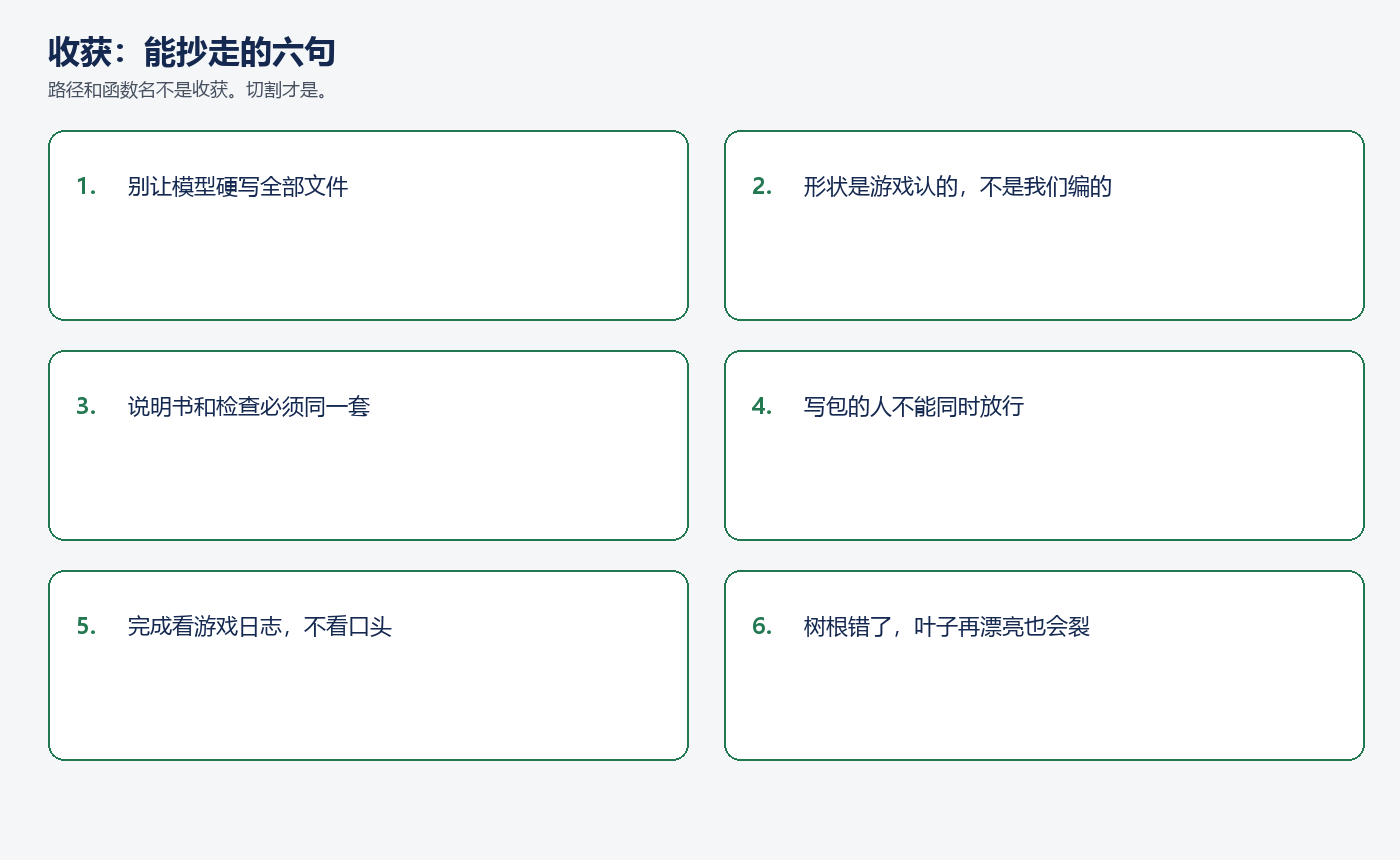
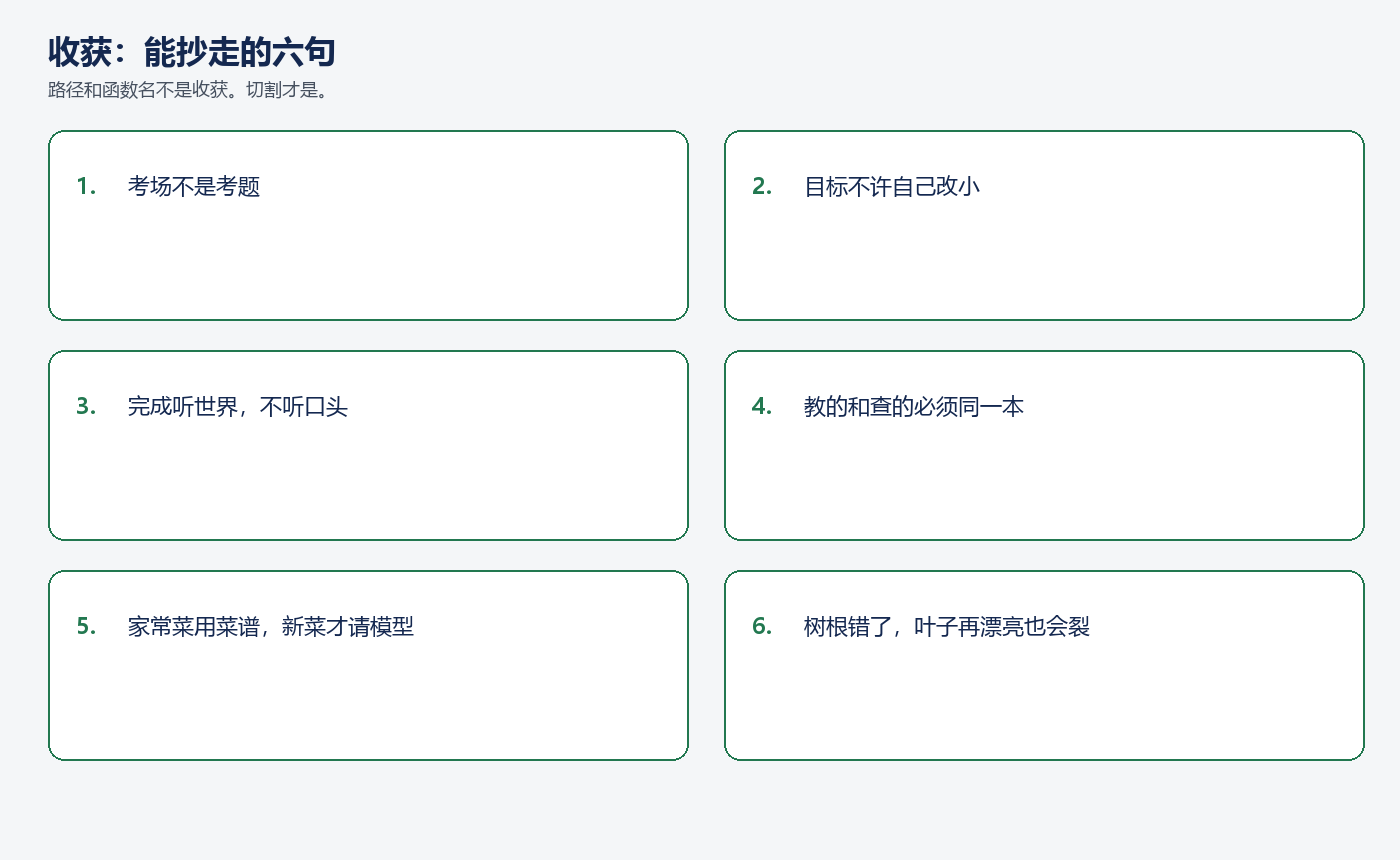
docs(zhihu): state why — SDV is the exam for agent-harness goal persistence

diff --git a/docs/zhihu-llm-schema/article.md b/docs/zhihu-llm-schema/article.md
@@ -2,11 +2,15 @@
 
 **TL;DR**
 
-- 别让一个大模型当万能厨师。家常菜用菜谱，新菜才请人现场做。
-- 形状是游戏认的那张表长什么样，不是「文件能打开」。
-- 教的和查的必须同一本说明书。过了门，才打包。
-- 「我写好了」不算完。听游戏日志改了哪张表。
+- 星露谷是考场。验的是 Agent 套件能不能把目标钉住，不是「会不会写模组」。
+- 目标不许自己改小。成功不能从「游戏里正确」缩成「文件能打开」。
+- 「我写好了」不算完。听游戏日志，不听口头。
+- 教的和查的同一本说明书，过门才打包。家常菜用菜谱，新菜才请模型。
 - 能抄走的是这套切法，不是某个仓库里的文件名。
+
+我们做这件事，不是为了再做一个模组生成器。
+
+是拿一个会骗人的完成标准，去压 Agent 的套件（圈内常叫 Harness）：目标会不会自己改小、会不会听口头下课、卡住会不会乱认输、空下来会不会把完整目标再念一遍。星露谷只是考场。模组能不能进游戏，是考卷上的分数，不是开这门课的原因。
 
 给 Agent 加「一句话生成模组」，第一反应通常是三件事：提示词丢进一个万能模型、吐出整棵目录就打包、文件能打开就算完成。
 
@@ -14,9 +18,15 @@
 
 我们没走这条。贯穿始终的一句话是：
 
-**形状是真相，过门才打包。**
+**星露谷是考场。答卷纸是：形状是真相，过门才打包。**
 
-人话：先弄清游戏吃什么样的补丁；说明书和检查用同一本；过关才给包装好的包；日志里真的改了表，才叫做成了。下面按这个顺序讲。每一步先说它是什么，再说它不是什么。
+人话：套件必须把「游戏里正确」钉住，不许改成「文件能打开」；说明书和检查用同一本；日志里真的改了表，才叫做成了。中途把题目改软，这门考就白考了。下面按这个顺序讲。每一步先说它是什么，再说它不是什么。
+
+![验四件事：目标不缩水、完成听世界、卡住才许认输、空了把完整目标再念一遍](images/09-why.png)
+
+是：用真游戏当外部裁判，逼套件把目标钉到日志认账为止。
+
+不是：展示「我们会用大模型写星露谷」。那是考场布置，不是考题。
 
 ---
 
@@ -26,7 +36,7 @@
 
 ![错路是万能模型整包吐目录；正路是家常菜走菜谱，新菜对照说明书，过门才打包](images/05-wrong.png)
 
-是：常见需求走写死的模板；新句子对照游戏数据写补丁；门按同一本说明书检查；过关才打包装。
+是：常见需求走写死的模板；新句子对照游戏数据写补丁；门按同一本说明书检查；过关才打包。
 
 不是：一个模型硬写全部文件。也不是在提示词里写「请生成正确模组」。更不是文件能打开就算完成。
 
@@ -42,7 +52,7 @@
 
 | 步 | 是什么 | 不是什么 |
 |---|---|---|
-| 需求 | 一句中文，拿到能丢进游戏的包 | 改游戏程序；万能模型吐整棵目录 |
+| 需求 | 压套件：目标不缩水，完成听世界 | 做个模组生成器给玩家玩；展示会写 JSON |
 | 接缝 | 家常菜走菜谱，新菜请人做；形状不私藏 | 一个模型既当厨师又当质检 |
 | 树根 | 游戏认的数据长什么样 | 我们自己编的字段名 |
 | 主干 | 说明书和检查同一本，过关才打包 | 模型写完就打包 |
@@ -161,21 +171,21 @@
 
 **收获**
 
-1. **别让模型硬写全部文件。** 家常菜用菜谱；新菜才请人做。不是一次调用包办。
-2. **形状是游戏认的，不是我们编的。** 消费者是游戏。不是「字段看起来合理」。
-3. **教的和查的必须同一本说明书。** 教什么就卡什么，过关才打包。不是各说各话。
-4. **写包的人不能同时放行。** 门不调模型。不是自己给自己打勾。
-5. **「我写好了」不算完。** 听日志里改了哪张表。不是文件能打开就算完成。
-6. **树根错了，叶子再漂亮也会在同一处裂开。** 万能模型、提示词当说明书、能打开就算完——进游戏会对不上。
+1. **考场不是考题。** 星露谷用来压套件。不是为了再做一个模组商店。
+2. **目标不许自己改小。** 成功是游戏里对得上。不是「文件能打开」就算。
+3. **完成听世界，不听口头。** 日志改了表才算。不是模型说写好了。
+4. **教的和查的必须同一本说明书。** 写的人不能给自己盖章。不是提示词里拜托一句正确。
+5. **家常菜用菜谱，新菜才请模型。** 不是一次调用硬写全部文件。
+6. **树根错了，叶子再漂亮也会裂。** 套件若把完成标准改软，进游戏会对不上。
 
 **结论**
 
-给 Agent 加「一句话生成模组」，不是让它「记得写出正确文件」，而是让世界有一本游戏认的说明书，并且每一次打包都重新过同一道门。能抄走的是这套切法，不是某个仓库里的文件名。
+我们做星露谷模组生成，是给 Agent 套件出一套会撒谎的考题：目标会不会缩水、会不会听口头下课、卡住会不会乱停。形状是真相、过门才打包，是这套考题在模组这件事上的答卷纸。能抄走的是这套切法，不是某个仓库里的文件名。
 
-**PS.** 只带走一句的话：形状是真相，过门才打包。说明书和检查用同一本；日志里改了表，才叫做成了。
+**PS.** 只带走一句：星露谷是考场。验的是套件能不能把目标钉住，直到游戏日志认账。
 
-**PPS.** 这和「把模型训得更听话」不是一回事。提示词只能说该写什么；门才决定能不能打包。更大的模型代替不了同一本说明书。
+**PPS.** 这和「把模型训得更会写模组」不是一回事。模型可以更强；套件若允许题目自己变小，考还是白考。
 
-**PPPS.** 文里的阶段名会过时。如果你在自己的系统里让模型硬写全部文件、用提示词当说明书、用「能打开」当完成——出包、放行、进游戏，会在同一处裂开。那才是这篇要拦的事。
+**PPPS.** 换个游戏、换个生成器，文件名都会过时。如果你的套件让目标缩成「能解析」、让模型自己宣布下课——出包、放行、进真环境，会在同一处裂开。那才是这篇要拦的事。
 
 想对照源码：GitHub `yhyu13/AgentMODGenerator`。

diff --git a/docs/zhihu-llm-schema/PUBLISH.md b/docs/zhihu-llm-schema/PUBLISH.md
@@ -10,18 +10,19 @@
 
 ## 导语（30–40 字，可作开头摘要）
 
-别让模型当万能厨师。教的和查的同一本说明书，过门才打包。完成听游戏日志，不听「我写好了」。
+星露谷是考场。验的是 Agent 套件能不能把目标钉住，直到游戏日志认账。不是「会不会写模组」。
 
 ## 配图上传顺序（与正文出现顺序一致）
 
-1. `images/05-wrong.png` — 错路 / 正路
-2. `images/06-thread.png` — 需求到切开的脉络
-3. `images/00-terms.png` — 加载器 / 补丁 / 说明书 / 门
-4. `images/01-tree.png` — 树根 / 主干 / 四根分支
-5. `images/03-trunk.png` — 教的和查的同一本
-6. `images/04-leaves.png` — 三份能挂上的包
-7. `images/08-evidence.png` — 「我写好了」不算完
-8. `images/07-takeaway.png` — 六条可抄走的判断
+1. `images/09-why.png` — 星露谷是考场，验套件四项
+2. `images/05-wrong.png` — 错路 / 正路
+3. `images/06-thread.png` — 需求到切开的脉络
+4. `images/00-terms.png` — 加载器 / 补丁 / 说明书 / 门
+5. `images/01-tree.png` — 树根 / 主干 / 四根分支
+6. `images/03-trunk.png` — 教的和查的同一本
+7. `images/04-leaves.png` — 三份能挂上的包
+8. `images/08-evidence.png` — 「我写好了」不算完
+9. `images/07-takeaway.png` — 六条可抄走的判断
 
 正文里的 `![…](images/….png)` 粘贴后不会自动带上本地文件；在对应位置插入刚上传的图即可。
 
